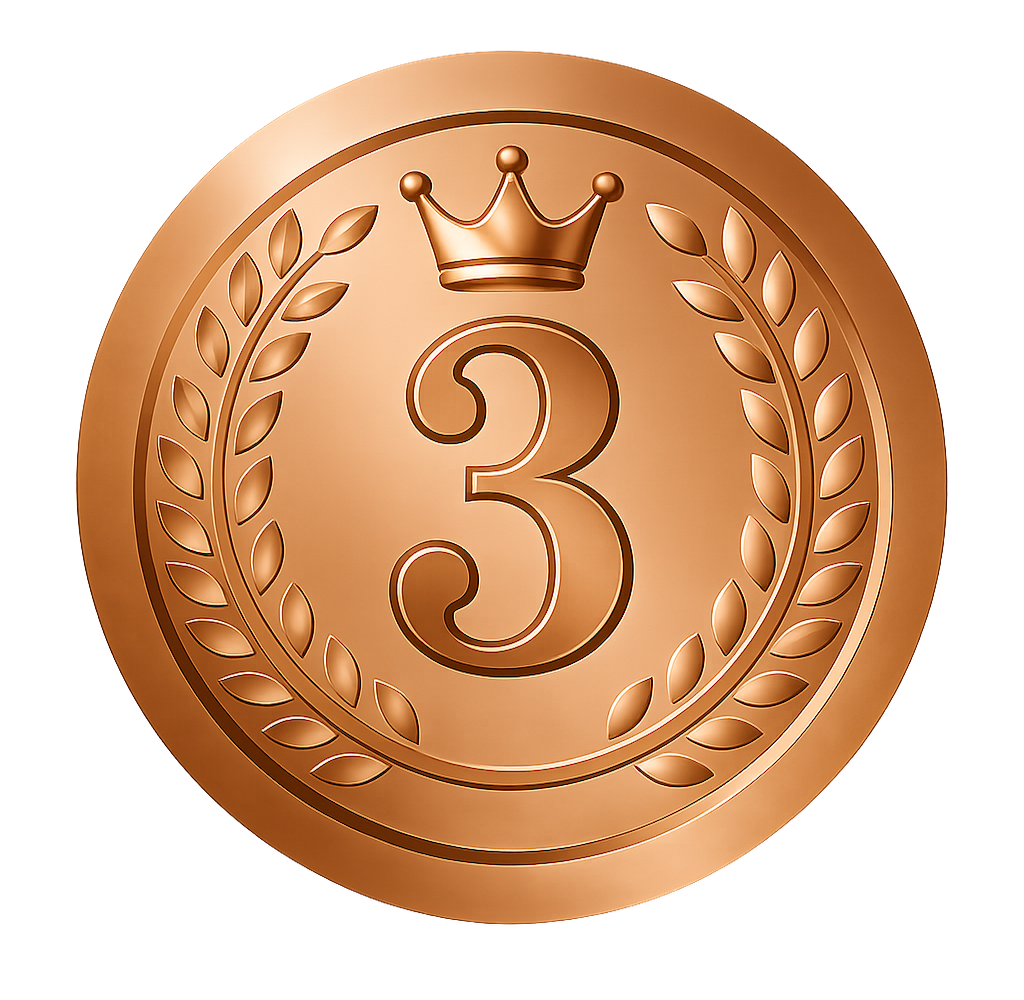
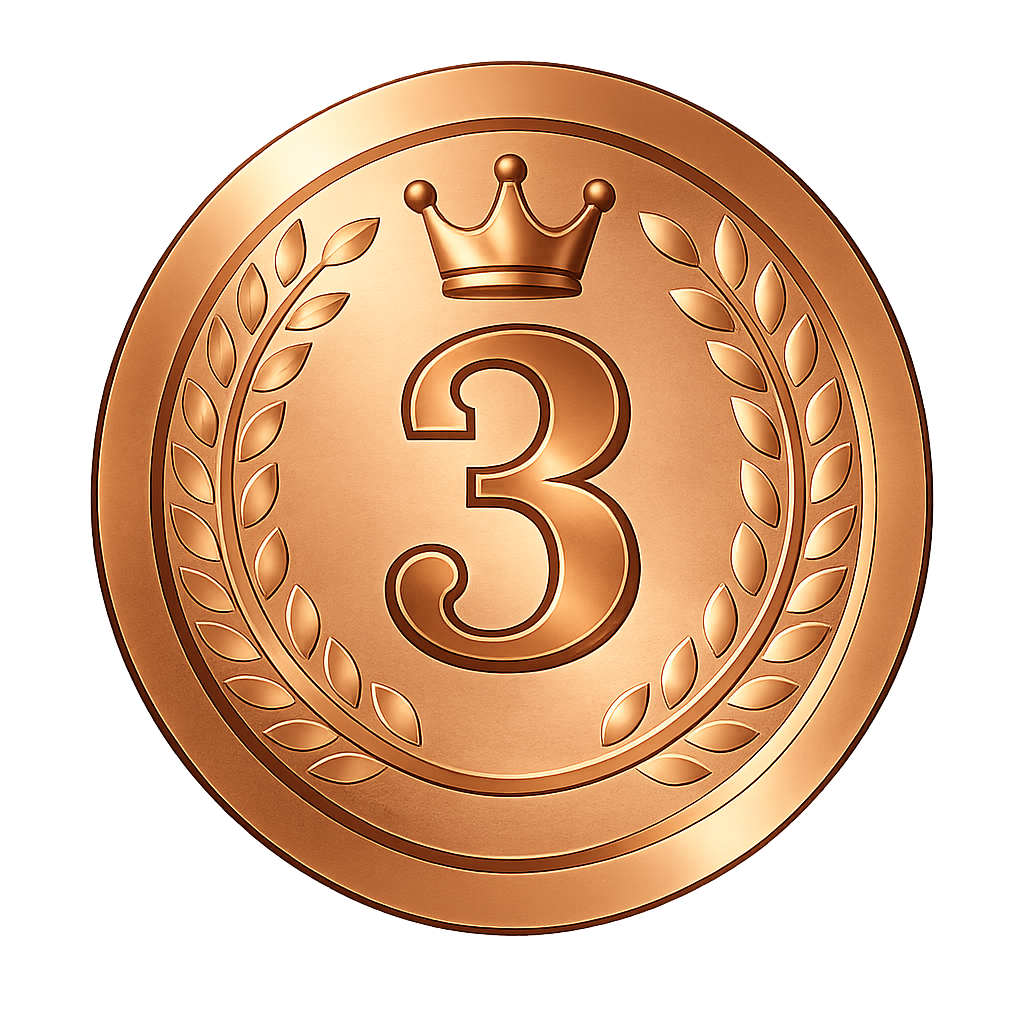
Improve review form UI and update app design

diff --git a/lib/pages/review_page.dart b/lib/pages/review_page.dart
@@ -162,8 +162,8 @@ class _ReviewPageState
 
     return Container(
 
-      width: 58,
-      height: 58,
+      width: 62,
+      height: 62,
 
       decoration: BoxDecoration(
 
@@ -442,16 +442,40 @@ class _ReviewPageState
           // =========================
           // サイト名
           // =========================
-          const Text(
+          Text.rich(
 
-            "サイト名",
+            TextSpan(
 
-            style: TextStyle(
+              children: [
 
-              fontWeight:
-                  FontWeight.bold,
+                const TextSpan(
 
-              fontSize: 16,
+                  text: "サイト名",
+
+                  style: TextStyle(
+
+                    color: Colors.black,
+
+                    fontWeight: FontWeight.bold,
+
+                    fontSize: 16,
+                  ),
+                ),
+
+                TextSpan(
+
+                  text: " *",
+
+                  style: TextStyle(
+
+                    color: Colors.red.shade500,
+
+                    fontWeight: FontWeight.bold,
+
+                    fontSize: 16,
+                  ),
+                ),
+              ],
             ),
           ),
 
@@ -467,7 +491,7 @@ class _ReviewPageState
             decoration: InputDecoration(
 
               hintText:
-                  "サイト名を入力",
+                  "例：競馬○◯",
 
               border:
                   OutlineInputBorder(
@@ -512,7 +536,7 @@ class _ReviewPageState
             decoration: InputDecoration(
 
               hintText:
-                  "投稿者名を入力",
+                  "例：Keibaサポーター",
 
               border:
                   OutlineInputBorder(
@@ -532,16 +556,40 @@ class _ReviewPageState
           // =========================
           // 星評価
           // =========================
-          const Text(
+          Text.rich(
 
-            "★5段階評価",
+            TextSpan(
 
-            style: TextStyle(
+              children: [
 
-              fontWeight:
-                  FontWeight.bold,
+                const TextSpan(
 
-              fontSize: 16,
+                  text: "★5段階評価 (タップして評価)",
+
+                  style: TextStyle(
+
+                    color: Colors.black,
+
+                    fontWeight: FontWeight.bold,
+
+                    fontSize: 16,
+                  ),
+                ),
+
+                TextSpan(
+
+                  text: " *",
+
+                  style: TextStyle(
+
+                    color: Colors.red.shade500,
+
+                    fontWeight: FontWeight.bold,
+
+                    fontSize: 16,
+                  ),
+                ),
+              ],
             ),
           ),
 
@@ -558,16 +606,40 @@ class _ReviewPageState
           // =========================
           // コメント
           // =========================
-          const Text(
+          Text.rich(
 
-            "クチコミ内容",
+            TextSpan(
 
-            style: TextStyle(
+              children: [
 
-              fontWeight:
-                  FontWeight.bold,
+                const TextSpan(
 
-              fontSize: 16,
+                  text: "クチコミ内容",
+
+                  style: TextStyle(
+
+                    color: Colors.black,
+
+                    fontWeight: FontWeight.bold,
+
+                    fontSize: 16,
+                  ),
+                ),
+
+                TextSpan(
+
+                  text: " *",
+
+                  style: TextStyle(
+
+                    color: Colors.red.shade500,
+
+                    fontWeight: FontWeight.bold,
+
+                    fontSize: 16,
+                  ),
+                ),
+              ],
             ),
           ),
 
@@ -577,23 +649,19 @@ class _ReviewPageState
 
           TextField(
 
-            controller:
-                commentController,
+            controller: commentController,
 
-            maxLines: 5,
+            maxLines: 4,
 
             decoration: InputDecoration(
 
-              hintText:
-                  "クチコミを入力",
+              hintText: "サイトを利用した感想を入力して下さい。",
 
-              border:
-                  OutlineInputBorder(
+              contentPadding: const EdgeInsets.all(14),
 
-                borderRadius:
-                    BorderRadius.circular(
-                  12,
-                ),
+              border: OutlineInputBorder(
+
+                borderRadius: BorderRadius.circular(12),
               ),
             ),
           ),
@@ -602,15 +670,26 @@ class _ReviewPageState
             height: 18,
           ),
 
-          const Text(
+          Text(
+            "* は必須項目です",
+            style: TextStyle(
+              color: Colors.red.shade500,
+              fontSize: 14,
+              fontWeight: FontWeight.w500,
+            ),
+          ),
 
-            "※クチコミ内容は、当アプリで審査後に反映されます。時間が掛かる場合がございますので、予めご了承下さいませ。",
+          const SizedBox(height: 6),
+
+          Text(
+
+            "※クチコミ内容は、当アプリで審査後に反映されます。反映まで時間が掛かる場合がございますので、予めご了承下さい。",
 
             style: TextStyle(
 
-              color: Colors.black,
+              color: Colors.grey.shade700,
 
-              fontSize: 13,
+              fontSize: 14,
             ),
           ),
 
@@ -845,13 +924,16 @@ class _ReviewPageState
 
                 Expanded(
 
-                  child: Column(
+                  child: Padding(
 
-                    crossAxisAlignment:
-                        CrossAxisAlignment
-                            .start,
+                    padding: const EdgeInsets.only(left: 10),
 
-                    children: [
+                    child: Column(
+
+                      crossAxisAlignment:
+                          CrossAxisAlignment.start,
+
+                      children: [
 
                       Text(
 
@@ -884,51 +966,61 @@ class _ReviewPageState
                         height: 6,
                       ),
 
-                      Wrap(
-
-                        crossAxisAlignment:
-                            WrapCrossAlignment
-                                .center,
-
-                        spacing: 6,
+                      Row(
 
                         children: [
 
-                          ...List.generate(
+                          Row(
 
-                            rating,
+                            children: List.generate(
 
-                            (_) =>
-                                const Icon(
+                              rating,
 
-                              Icons.star,
+                              (_) => const Padding(
 
-                              color:
-                                  Colors
-                                      .amber,
+                                padding: EdgeInsets.only(right: 2),
 
-                              size: 18,
+                                child: Icon(
+
+                                  Icons.star,
+
+                                  color: Colors.amber,
+
+                                  size: 18,
+
+                                ),
+                              ),
                             ),
                           ),
 
-                          Text(
+                          const SizedBox(width: 12),
 
-                            userName
-                                    .isNotEmpty
-                                ? userName
-                                : "匿名",
+                          Expanded(
 
-                            style:
-                                const TextStyle(
+                            child: Align(
 
-                              fontWeight:
-                                  FontWeight
-                                      .bold,
+                              alignment: Alignment.centerRight,
+
+                              child: Text(
+
+                                userName.isNotEmpty
+                                    ? userName
+                                    : "匿名",
+
+                                style: TextStyle(
+
+                                  fontWeight: FontWeight.bold,
+
+                                  color: Colors.grey.shade700,
+
+                                ),
+                              ),
                             ),
                           ),
                         ],
                       ),
-                    ],
+                      ],
+                    ),
                   ),
                 ),
               ],

diff --git a/lib/pages/prediction_page.dart b/lib/pages/prediction_page.dart
@@ -750,7 +750,7 @@ class _PredictionPageState
                           ),
 
                           const RankingHeader(
-                            title: "〜おすすめ競馬サイト〜",
+                            title: "厳選！おすすめ競馬サイト",
                               icon: Icons.star,
                               showRankingText: false,
                               showIcon: false,

diff --git a/lib/pages/home_page.dart b/lib/pages/home_page.dart
@@ -584,7 +584,7 @@ class _HomePageState
                     return const RankingHeader(
 
                       title:
-                          "〜おすすめ競馬サイト〜",
+                          "厳選！おすすめ競馬サイト",
 
                       icon: Icons.star,
 

diff --git a/lib/pages/ranking_page.dart b/lib/pages/ranking_page.dart
@@ -107,7 +107,7 @@ class _RankingPageState
           siteId: 0,
 
           siteName:
-              "ダミー競馬サイト$i",
+              "競馬サイト$i",
 
           // =========================
           // 🔥 追加
